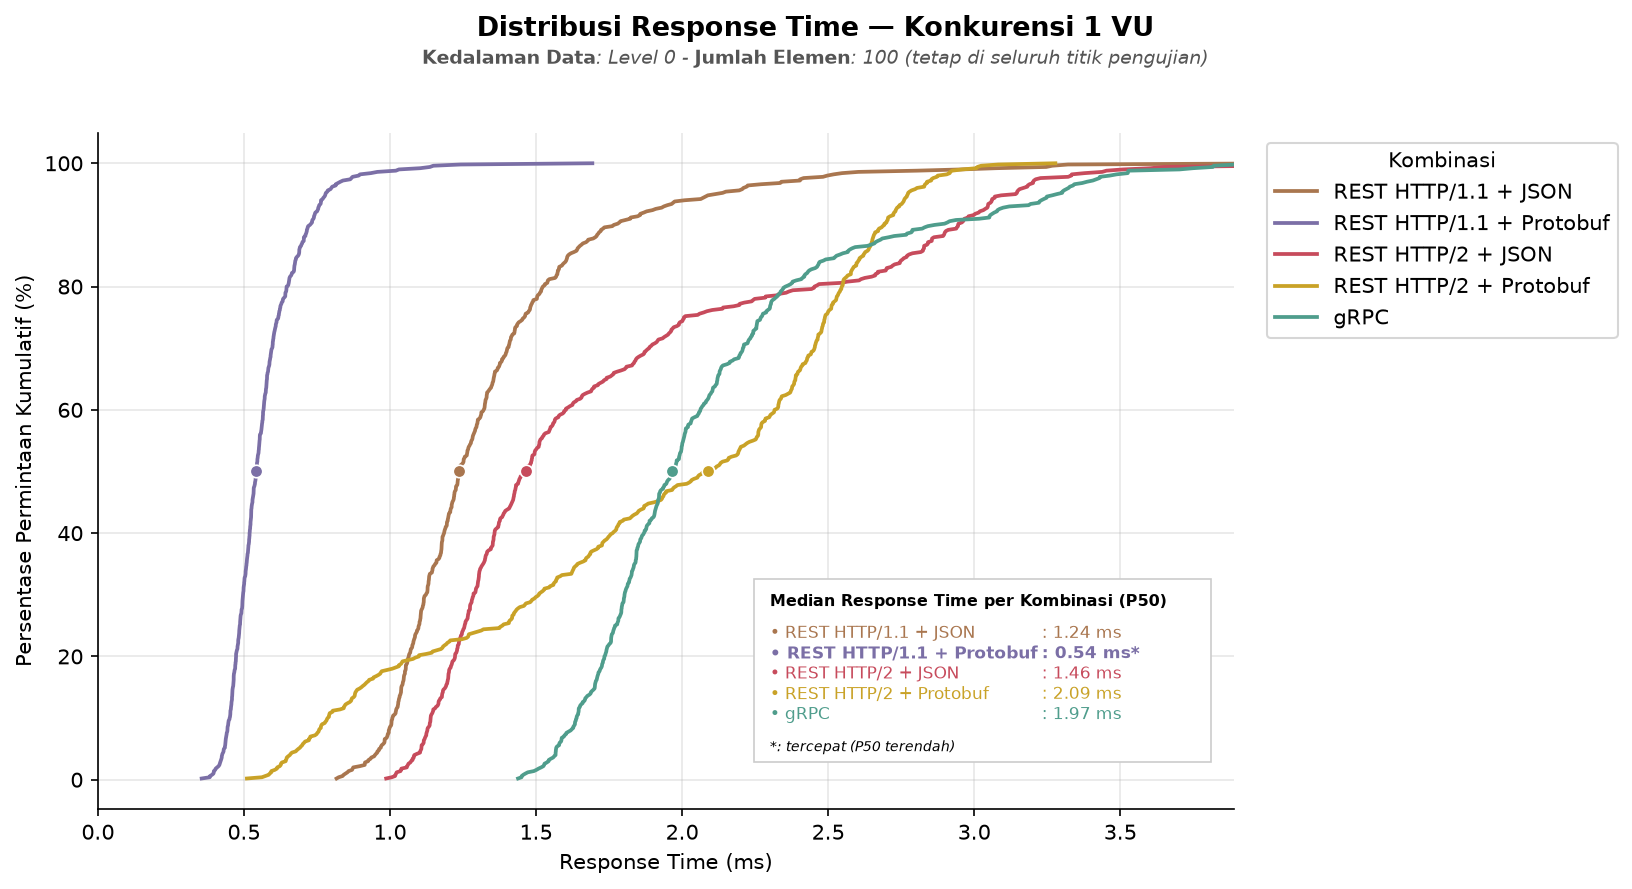
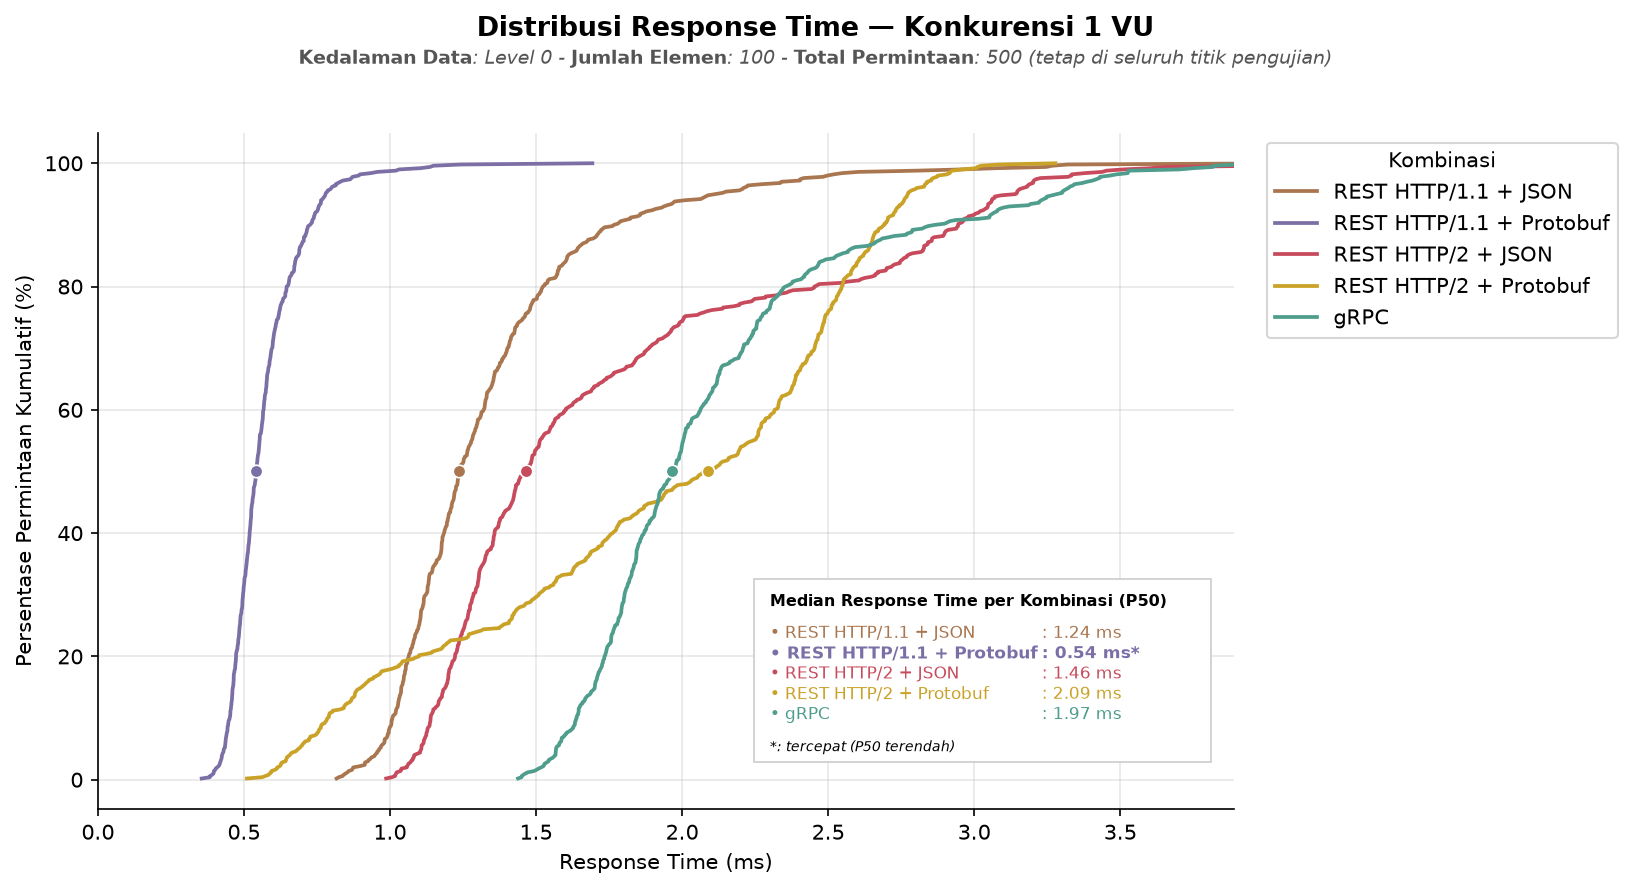
feat: add multiplexing scenario visualization, unify subtitle context
- Add multiplexing_visualize.py: reads h2load's tab-separated
  --log-file output for REST (4 combinations) and ghz's --format
  json output for gRPC, producing 5 response-time CDF charts (one
  per concurrent-request level: 10/50/100/500/1000), one throughput
  bar chart, and a response-time summary table
- Add MULTIPLEX_COLORS (purple, 5 shades), distinct from the blue
  already used by the depth scenario
- Commit the resulting 5 CDF charts, 1 throughput chart, and summary
  CSV for the multiplexing scenario

- Replace each scenario's "Konkurensi: N VU" subtitle field with
  "Koneksi: N", since that k6-specific term doesn't translate to
  h2load/ghz's terminology (clients/connections) used by the new
  multiplexing scenario
- Add a "Total Permintaan" field to all four scenarios' subtitles,
  previously not shown anywhere
- Concurrency scenario's subtitle omits "Koneksi" specifically, since
  that's the variable under test there rather than a fixed condition

Changed region(s): [[0.1875, 0.0304, 0.8125, 0.0911]]

diff --git a/testing/analysis/multiplexing/multiplexing_visualize.py b/testing/analysis/multiplexing/multiplexing_visualize.py
@@ -1,23 +1,32 @@
 """
-element_count_visualize.py
+multiplexing_visualize.py
 
-Reads k6 CSV results (all 5 protocol combinations: REST HTTP/1.1
-JSON/Protobuf, REST HTTP/2 JSON/Protobuf, gRPC) across three element
-counts (1, 100, 1000), and produces:
-  1. Three response-time CDF charts (one per element count), showing
-     what fraction of requests completed within a given response
-     time, one curve per protocol combination.
+Reads h2load per-request log files (REST HTTP/1.1 and HTTP/2, both
+JSON and Protobuf) and ghz JSON result files (gRPC) across five
+concurrent-request levels (10, 50, 100, 500, 1000), and produces:
+  1. Five response-time CDF charts (one per level), showing what
+     fraction of requests completed within a given response time,
+     one curve per protocol combination.
   2. One throughput bar chart, x-axis = protocol combination,
-     grouped bars = one per element count.
-  3. One data_received summary table (average bytes per response),
+     grouped bars = one per concurrent-request level.
+  3. One response-time summary table (mean/median/P90/P95/P99/min/max),
      saved as CSV.
 
-Expects files named rest-h1-json-{one,hundred,thousand}.csv etc. in
-../../results/element-count/.
+REST combinations are read from h2load's --log-file output: tab-
+separated, no header, columns are (start time in microseconds,
+HTTP status code, duration in microseconds).
 
-Run with: python3 element_count_visualize.py
+The gRPC combination is read from ghz's --format json output: a
+JSON object whose "details" key holds a list of per-request records
+with timestamp, latency (nanoseconds), status, and error fields.
+
+Expects files named rest-h1-json-m{10,50,100,500,1000}.log etc. and
+grpc-m{10,50,100,500,1000}.json in ../../results/multiplexing/.
+
+Run with: python3 multiplexing_visualize.py
 """
 
+import json
 import sys
 from pathlib import Path
 
@@ -25,45 +34,61 @@ import matplotlib.pyplot as plt
 import pandas as pd
 
 SCRIPT_DIR = Path(__file__).parent
-RESULTS_DIR = SCRIPT_DIR.parent.parent / "results" / "element-count"
+RESULTS_DIR = SCRIPT_DIR.parent.parent / "results" / "multiplexing"
 OUTPUT_DIR = SCRIPT_DIR
 
 sys.path.insert(0, str(SCRIPT_DIR.parent))
 from style import COMBO_COLORS, COMBO_ORDER, COMBO_FILE_PREFIX, place_legend_outside  # noqa: E402
 
-# VUs are fixed at 10 for every point in this scenario, and depth is
-# fixed at Level 0, per the agreed configuration; only element count
-# varies.
-VUS = 10
+# Connections are fixed at 1 for every point in this scenario, per the
+# agreed configuration; only m (concurrent requests allowed per
+# connection) varies. Depth is fixed at Level 0, element count at 100
+# (Hundred), matching the same isolation reasoning used in the
+# concurrency scenario.
+POINTS = [10, 50, 100, 500, 1000]
 
-POINTS = [
-    ("one", "1"),
-    ("hundred", "100"),
-    ("thousand", "1000"),
-]
-
-ELEMENT_COLORS = {
-    "1 Elemen": "#A8D5A0",
-    "100 Elemen": "#5FA85A",
-    "1000 Elemen": "#2E6B2E",
+MULTIPLEX_COLORS = {
+    "10 Permintaan": "#D8C4E8",
+    "50 Permintaan": "#B79FD1",
+    "100 Permintaan": "#9678BA",
+    "500 Permintaan": "#74519F",
+    "1000 Permintaan": "#4F2D7A",
 }
 
-SCENARIO_CONTEXT = r"$\bf{Kedalaman\ Data}$: Level 0 - $\bf{Koneksi}$: 10 - $\bf{Total\ Permintaan}$: 500 (tetap di seluruh titik pengujian)"
+SCENARIO_CONTEXT = r"$\bf{Kedalaman\ Data}$: Level 0 - $\bf{Jumlah\ Elemen}$: 100 - $\bf{Koneksi}$: 1 - $\bf{Total\ Permintaan}$: 5000 (tetap di seluruh titik pengujian)"
+
+def load_rest_durations_ms(combo: str, m: int) -> pd.Series:
+    """Load one h2load --log-file result and return its per-request durations in ms.
+    - The file has no header row; columns are start time (us), HTTP status, duration (us).
+    - REST HTTP/1.1 combinations use h2load's pipelining sense of -m rather than genuine
+      multiplexing, included deliberately as a contrast against HTTP/2 and gRPC.
+    """
+    prefix = COMBO_FILE_PREFIX[combo]
+    path = RESULTS_DIR / f"{prefix}-m{m}.log"
+    df = pd.read_csv(path, sep="\t", header=None, names=["start_us", "status", "duration_us"])
+    return df["duration_us"] / 1000
 
 
-def metric_name_for(combo: str) -> str:
-    """Return the k6 metric_name that holds this combination's response time (gRPC and REST log it under different names)."""
-    return "grpc_req_duration" if combo == "gRPC" else "http_req_duration"
+def load_grpc_durations_ms(m: int) -> pd.Series:
+    """Load one ghz --format json result and return its per-request durations in ms.
+    - latency is in nanoseconds in ghz's JSON output, unlike h2load's microseconds.
+    """
+    path = RESULTS_DIR / f"grpc-m{m}.json"
+    with open(path) as f:
+        data = json.load(f)
+    latencies_ns = [d["latency"] for d in data["details"]]
+    return pd.Series(latencies_ns) / 1_000_000
 
 
-def load_csv(prefix: str, point_suffix: str) -> pd.DataFrame:
-    """Load one raw k6 CSV result file for this scenario."""
-    path = RESULTS_DIR / f"{prefix}-{point_suffix}.csv"
-    return pd.read_csv(path, low_memory=False)
+def load_durations_ms(combo: str, m: int) -> pd.Series:
+    """Dispatch to the correct reader depending on which tool produced this combination's data."""
+    if combo == "gRPC":
+        return load_grpc_durations_ms(m)
+    return load_rest_durations_ms(combo, m)
 
 
-def plot_response_time_cdf(point_suffix: str, point_label: str):
-    """CDF chart for one element count: one curve per protocol
+def plot_response_time_cdf(m: int):
+    """CDF chart for one concurrent-request level: one curve per protocol
     combination, showing what fraction of requests completed within a
     given response time. X-axis is zoomed to the 99th percentile
     across all combinations, not the raw max, so rare outliers don't
@@ -75,15 +100,16 @@ def plot_response_time_cdf(point_suffix: str, point_label: str):
     - The summary box's width is measured from the actual rendered text
       width of its widest line, not a hardcoded guess, so it always fits
       snugly regardless of how long the combination names or values are.
+    - Combination names and their values are drawn as two separate
+      columns (tab-stop style), so every colon lines up regardless of
+      how long each combination's name is.
     """
     fig, ax = plt.subplots(figsize=(11, 6))
 
     all_p99 = []
     p50_data = []
     for combo in COMBO_ORDER:
-        prefix = COMBO_FILE_PREFIX[combo]
-        df = load_csv(prefix, point_suffix)
-        vals = df[df["metric_name"] == metric_name_for(combo)]["metric_value"].sort_values().values
+        vals = load_durations_ms(combo, m).sort_values().values
         cumulative_pct = (pd.Series(range(1, len(vals) + 1)) / len(vals)) * 100
         ax.plot(vals, cumulative_pct, label=combo, color=COMBO_COLORS[combo], linewidth=1.8)
         all_p99.append(pd.Series(vals).quantile(0.99))
@@ -173,27 +199,25 @@ def plot_response_time_cdf(point_suffix: str, point_label: str):
     ax.text(text_x, y, footnote_text, transform=ax.transAxes, fontsize=6.5, color="black",
             style="italic", ha="left", va="top", zorder=7)
 
-    fig.suptitle(f"Distribusi Response Time — Jumlah Elemen {point_label}", fontsize=13, fontweight="bold", y=0.98)
+    fig.suptitle(f"Distribusi Response Time — Tingkat Multiplexing {m} Permintaan", fontsize=13, fontweight="bold", y=0.98)
     fig.text(0.5, 0.925, SCENARIO_CONTEXT, ha="center", fontsize=9, color="#555555", style="italic")
     fig.tight_layout(rect=[0, 0, 1, 0.93])
 
     OUTPUT_DIR.mkdir(parents=True, exist_ok=True)
-    filename = f"response_time_cdf_element_{point_suffix}.png"
+    filename = f"response_time_cdf_multiplexing_m{m}.png"
     fig.savefig(OUTPUT_DIR / filename, dpi=150, bbox_inches="tight")
     plt.close(fig)
     print(f"Saved {OUTPUT_DIR / filename}")
 
 
 def print_response_time_summary_table():
-    """Print (and save as CSV) the response-time summary statistics table across all element counts and combinations."""
+    """Print (and save as CSV) the response-time summary statistics table across all multiplexing levels and combinations."""
     rows = []
-    for point_suffix, point_label in POINTS:
+    for m in POINTS:
         for combo in COMBO_ORDER:
-            prefix = COMBO_FILE_PREFIX[combo]
-            df = load_csv(prefix, point_suffix)
-            vals = df[df["metric_name"] == metric_name_for(combo)]["metric_value"]
+            vals = load_durations_ms(combo, m)
             rows.append({
-                "Titik": f"{point_label} Elemen",
+                "Titik": f"{m} Permintaan",
                 "Kombinasi": combo,
                 "Mean (ms)": round(vals.mean(), 3),
                 "Median (ms)": round(vals.median(), 3),
@@ -204,7 +228,7 @@ def print_response_time_summary_table():
                 "Max (ms)": round(vals.max(), 3),
             })
     table = pd.DataFrame(rows)
-    print("\nRingkasan Statistik Response Time - Skenario Jumlah Elemen:")
+    print("\nRingkasan Statistik Response Time - Skenario Tingkat Multiplexing:")
     print(table.to_string(index=False))
 
     OUTPUT_DIR.mkdir(parents=True, exist_ok=True)
@@ -213,84 +237,55 @@ def print_response_time_summary_table():
     print(f"Saved {out_path}")
 
 
-def compute_throughput(prefix: str, point_suffix: str, metric_name: str) -> float:
-    """Compute throughput as VUS / mean_latency_seconds, not from raw timestamp span.
-    - Several points/combinations in this scenario complete in well under a second
-      (e.g. One's sub-millisecond mean latency x 50 iterations), far too short for
-      k6's whole-second timestamp resolution to measure duration accurately.
-    - This assumes the per-vu-iterations closed-model executor used throughout this
-      test suite: each VU runs its iterations strictly sequentially, so one VU's own
-      rate is 1/mean_latency_seconds, and VUS identical parallel VUs multiply that.
+def compute_throughput(combo: str, m: int) -> float:
+    """Compute throughput as m / mean_latency_seconds.
+    - This treats m (max concurrent requests per connection) the same way earlier
+      scenarios treated VUS: since connections are fixed at 1 and m requests are kept
+      continuously in flight, m/mean_latency_seconds approximates the sustained rate,
+      analogous to VUS/mean_latency_seconds for the per-vu-iterations closed model.
     """
-    df = load_csv(prefix, point_suffix)
-    mean_ms = df[df["metric_name"] == metric_name]["metric_value"].mean()
-    return VUS / (mean_ms / 1000)
+    mean_ms = load_durations_ms(combo, m).mean()
+    return m / (mean_ms / 1000)
 
 
 def plot_throughput():
-    """Bar chart: x-axis = protocol combination, grouped bars = one per element count."""
-    fig, ax = plt.subplots(figsize=(12, 6))
+    """Bar chart: x-axis = protocol combination, grouped bars = one per concurrent-request level."""
+    fig, ax = plt.subplots(figsize=(13, 6))
     x = range(len(COMBO_ORDER))
     n = len(POINTS)
     width = 0.8 / n
-    offsets = {point_label: (i - (n - 1) / 2) * width for i, (_, point_label) in enumerate(POINTS)}
+    offsets = {m: (i - (n - 1) / 2) * width for i, m in enumerate(POINTS)}
 
-    for point_suffix, point_label in POINTS:
-        el_label = f"{point_label} Elemen"
-        vals = [compute_throughput(COMBO_FILE_PREFIX[combo], point_suffix, metric_name_for(combo)) for combo in COMBO_ORDER]
-        positions = [xi + offsets[point_label] for xi in x]
-        bars = ax.bar(positions, vals, width=width, label=el_label,
-                      color=ELEMENT_COLORS[el_label], alpha=0.9, edgecolor="#E5E5E5", linewidth=0.6)
+    for m in POINTS:
+        label = f"{m} Permintaan"
+        vals = [compute_throughput(combo, m) for combo in COMBO_ORDER]
+        positions = [xi + offsets[m] for xi in x]
+        bars = ax.bar(positions, vals, width=width, label=label,
+                      color=MULTIPLEX_COLORS[label], alpha=0.9, edgecolor="#E5E5E5", linewidth=0.6)
         ax.bar_label(bars, fmt="%.0f", fontsize=6, padding=2)
 
     ax.set_xticks(list(x))
     ax.set_xticklabels(COMBO_ORDER, rotation=15, ha="right")
     ax.set_ylabel("Throughput (request/detik)")
-    place_legend_outside(ax, title="Jumlah Elemen")
+    place_legend_outside(ax, title="Tingkat Multiplexing")
     ax.spines["top"].set_visible(False)
     ax.spines["right"].set_visible(False)
 
-    fig.suptitle("Throughput — Skenario Jumlah Elemen", fontsize=13, fontweight="bold", y=0.98)
+    fig.suptitle("Throughput — Skenario Tingkat Multiplexing", fontsize=13, fontweight="bold", y=0.98)
     fig.text(0.5, 0.925, SCENARIO_CONTEXT, ha="center", fontsize=9, color="#555555", style="italic")
     fig.tight_layout(rect=[0, 0, 1, 0.93])
 
     OUTPUT_DIR.mkdir(parents=True, exist_ok=True)
-    fig.savefig(OUTPUT_DIR / "throughput_element_count.png", dpi=150, bbox_inches="tight")
+    fig.savefig(OUTPUT_DIR / "throughput_multiplexing.png", dpi=150, bbox_inches="tight")
     plt.close(fig)
-    print(f"Saved {OUTPUT_DIR / 'throughput_element_count.png'}")
-
-
-def compute_data_received(prefix: str, point_suffix: str) -> float:
-    """Compute the average data_received (bytes) per request for one combination/point."""
-    df = load_csv(prefix, point_suffix)
-    return df[df["metric_name"] == "data_received"]["metric_value"].mean()
-
-
-def print_data_received_table():
-    """Print (and save as CSV) the data_received summary table across all element counts and combinations."""
-    rows = []
-    for point_suffix, point_label in POINTS:
-        row = {"Titik": f"{point_label} Elemen"}
-        for combo in COMBO_ORDER:
-            row[combo] = round(compute_data_received(COMBO_FILE_PREFIX[combo], point_suffix), 1)
-        rows.append(row)
-
-    table = pd.DataFrame(rows)
-    print("\nRingkasan data_received (byte) - Skenario Jumlah Elemen:")
-    print(table.to_string(index=False))
-
-    OUTPUT_DIR.mkdir(parents=True, exist_ok=True)
-    out_path = OUTPUT_DIR / "data_received_summary.csv"
-    table.to_csv(out_path, index=False)
-    print(f"Saved {out_path}")
+    print(f"Saved {OUTPUT_DIR / 'throughput_multiplexing.png'}")
 
 
 def main():
-    for point_suffix, point_label in POINTS:
-        plot_response_time_cdf(point_suffix, point_label)
+    for m in POINTS:
+        plot_response_time_cdf(m)
     plot_throughput()
     print_response_time_summary_table()
-    print_data_received_table()
 
 
 if __name__ == "__main__":

diff --git a/testing/analysis/concurrency/concurrency_visualize.py b/testing/analysis/concurrency/concurrency_visualize.py
@@ -47,8 +47,7 @@ CONCURRENCY_COLORS = {
     "100 VU": "#A8501C",
 }
 
-SCENARIO_CONTEXT = r"$\bf{Kedalaman\ Data}$: Level 0 - $\bf{Jumlah\ Elemen}$: 100 (tetap di seluruh titik pengujian)"
-
+SCENARIO_CONTEXT = r"$\bf{Kedalaman\ Data}$: Level 0 - $\bf{Jumlah\ Elemen}$: 100 - $\bf{Total\ Permintaan}$: 500 (tetap di seluruh titik pengujian)"
 
 def metric_name_for(combo: str) -> str:
     """Return the k6 metric_name that holds this combination's response time (gRPC and REST log it under different names)."""

diff --git a/testing/analysis/depth/depth_visualize.py b/testing/analysis/depth/depth_visualize.py
@@ -47,8 +47,7 @@ DEPTH_COLORS = {
     "Level 4": "#1F5788",
 }
 
-SCENARIO_CONTEXT = r"$\bf{Jumlah\ Elemen}$: 1 - $\bf{Konkurensi}$: 10 VU (tetap di seluruh titik pengujian)"
-
+SCENARIO_CONTEXT = r"$\bf{Jumlah\ Elemen}$: 1 - $\bf{Koneksi}$: 10 - $\bf{Total\ Permintaan}$: 500 (tetap di seluruh titik pengujian)"
 
 def metric_name_for(combo: str) -> str:
     """Return the k6 metric_name that holds this combination's response time (gRPC and REST log it under different names)."""
